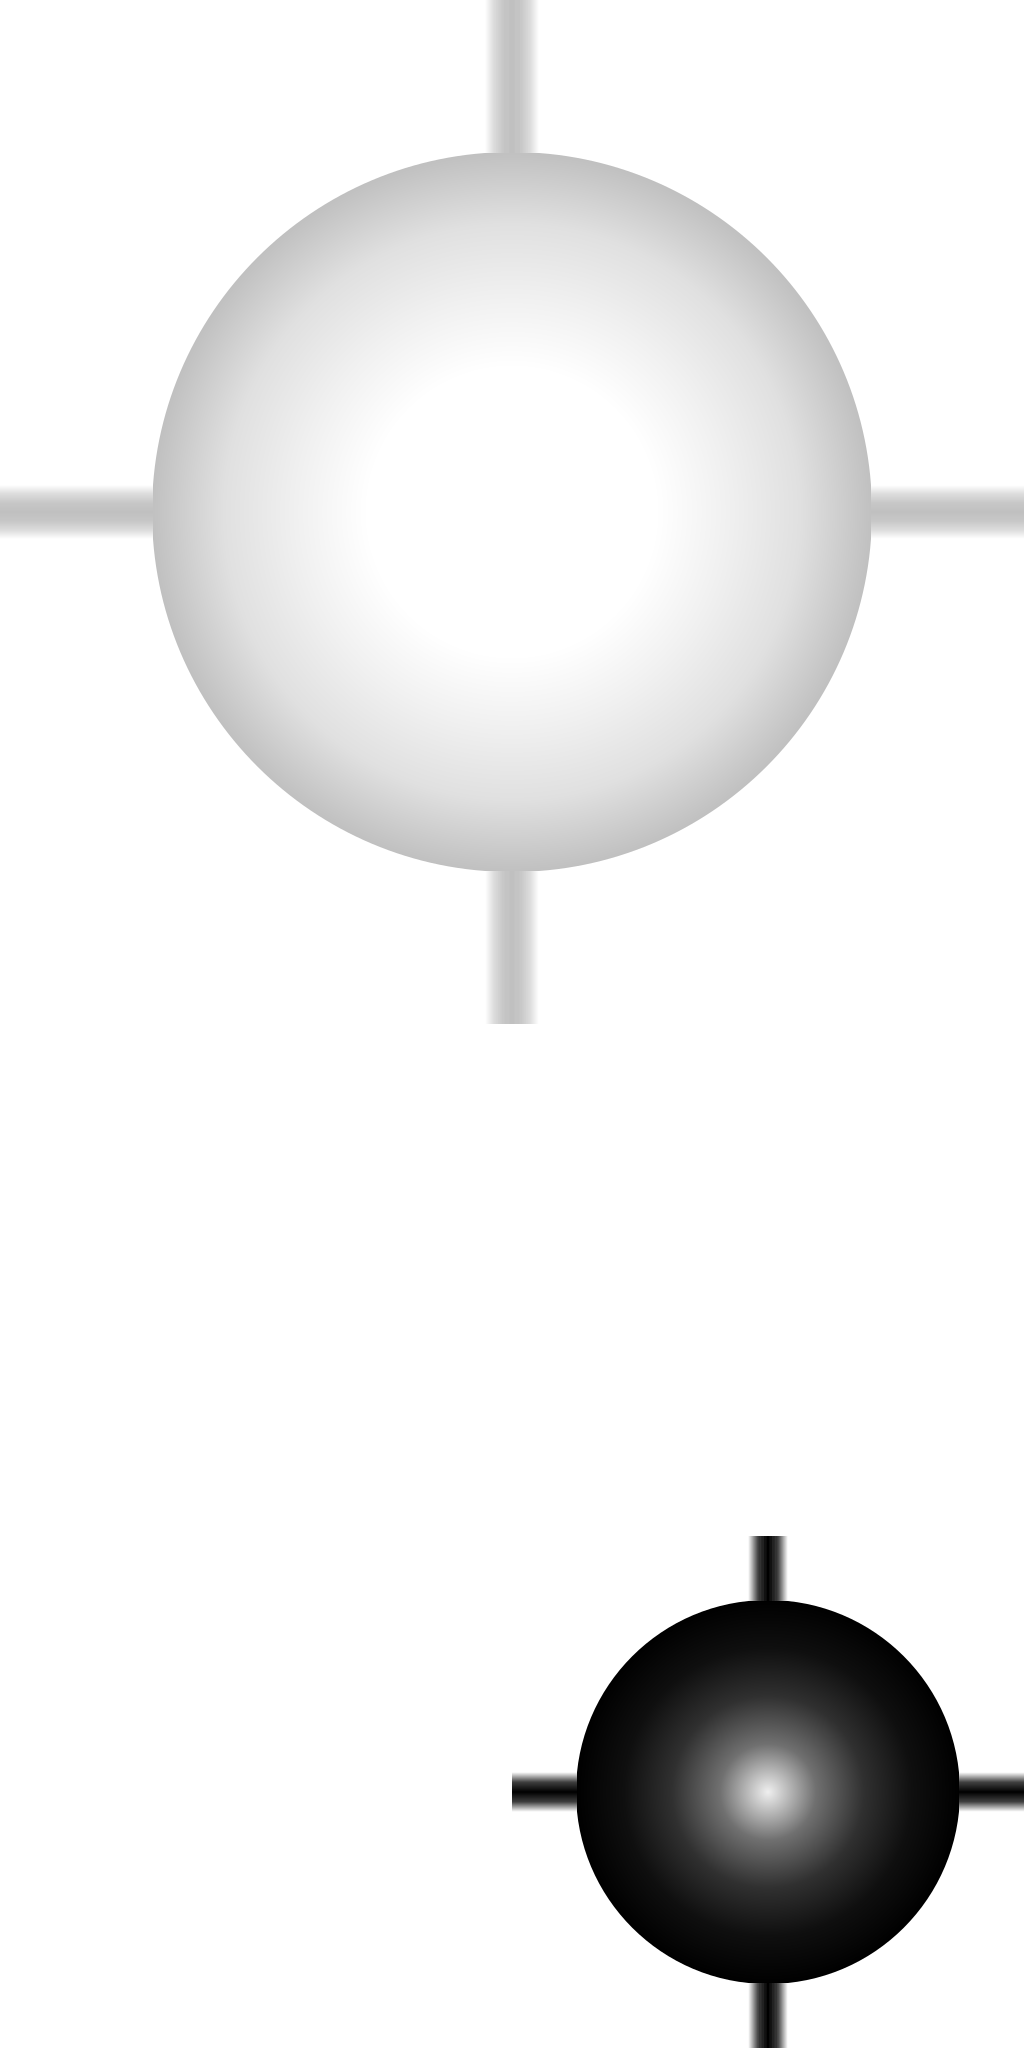
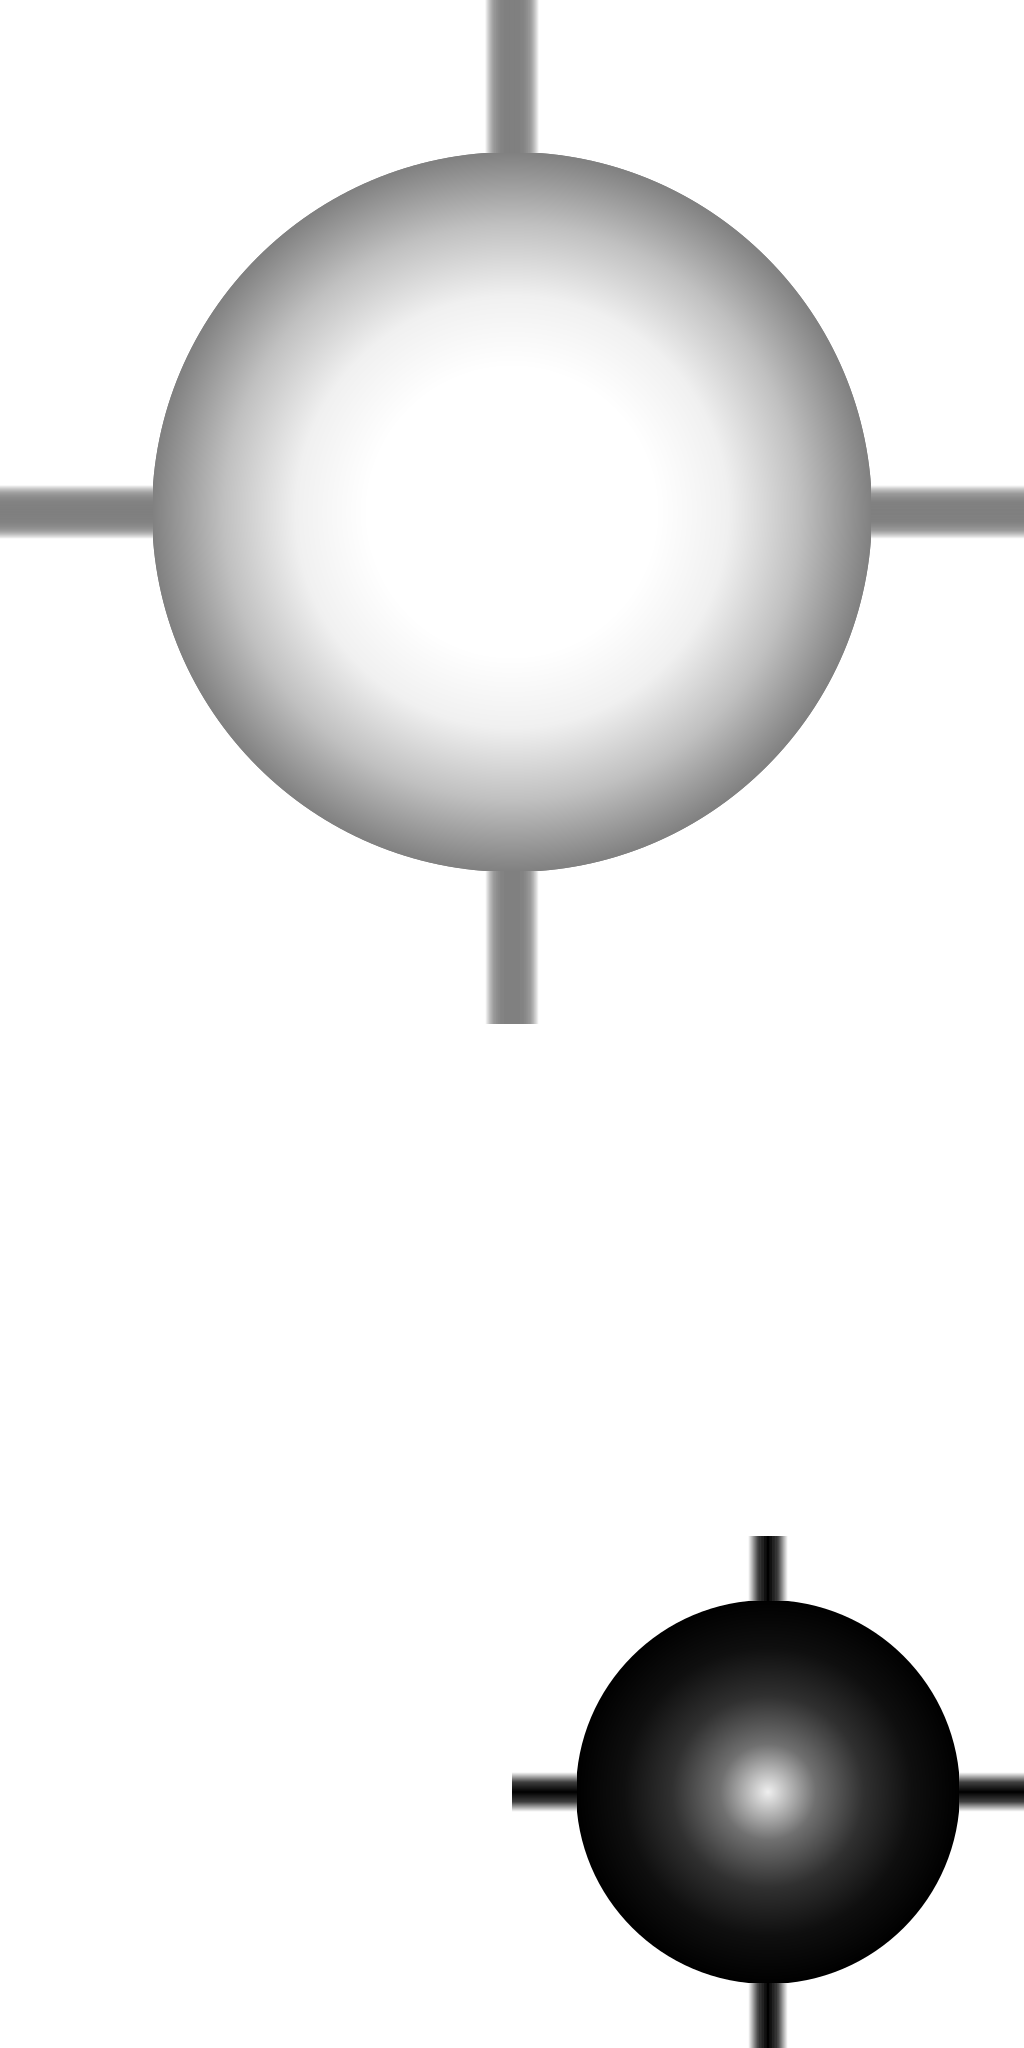
star sizecolor 0.1.0.3 further tweaks to color and size

Changed region(s): [[0.0, 0.0, 1.0, 0.5]]

diff --git a/star/sizecolor/scripts/objRefTable.js b/star/sizecolor/scripts/objRefTable.js
@@ -104,7 +104,7 @@ self.C3_JsPropNameTable = [
 	{Item: 0},
 	{Text: 0},
 	{ButtonFilter: 0},
-	{TempOut: 0},
+	{Star: 0},
 	{Halo: 0},
 	{Button: 0},
 	{ToggleButton: 0},
@@ -144,7 +144,7 @@ self.InstanceType = {
 	Item: class extends self.ITextInstance {},
 	Text: class extends self.ITextInstance {},
 	ButtonFilter: class extends self.ITextInstance {},
-	TempOut: class extends self.ISpriteInstance {},
+	Star: class extends self.ISpriteInstance {},
 	Halo: class extends self.ISpriteInstance {},
 	Button: class extends self.ITextInstance {},
 	ToggleButton: class extends self.ITextInstance {}

diff --git a/star/sizecolor/scripts/c3runtime.js b/star/sizecolor/scripts/c3runtime.js
@@ -1569,7 +1569,7 @@ self.C3_ExpressionFuncs = [
 			return () => f0((f1(0, f2(255, (329.698727446 * Math.pow(((n3.ExpInstVar() / 100) - 60), (-0.1332047592))))) * v4.GetValue()), (f5(0, f6(255, (288.1221695283 * Math.pow(((n7.ExpInstVar() / 100) - 60), (-0.0755148492))))) * v8.GetValue()), (255 * v9.GetValue()));
 		},
 		() => 4,
-		() => 0.4,
+		() => 0.6,
 		() => "Remove Filter",
 		() => "Add\nFilter",
 		() => "ToggleButton",
